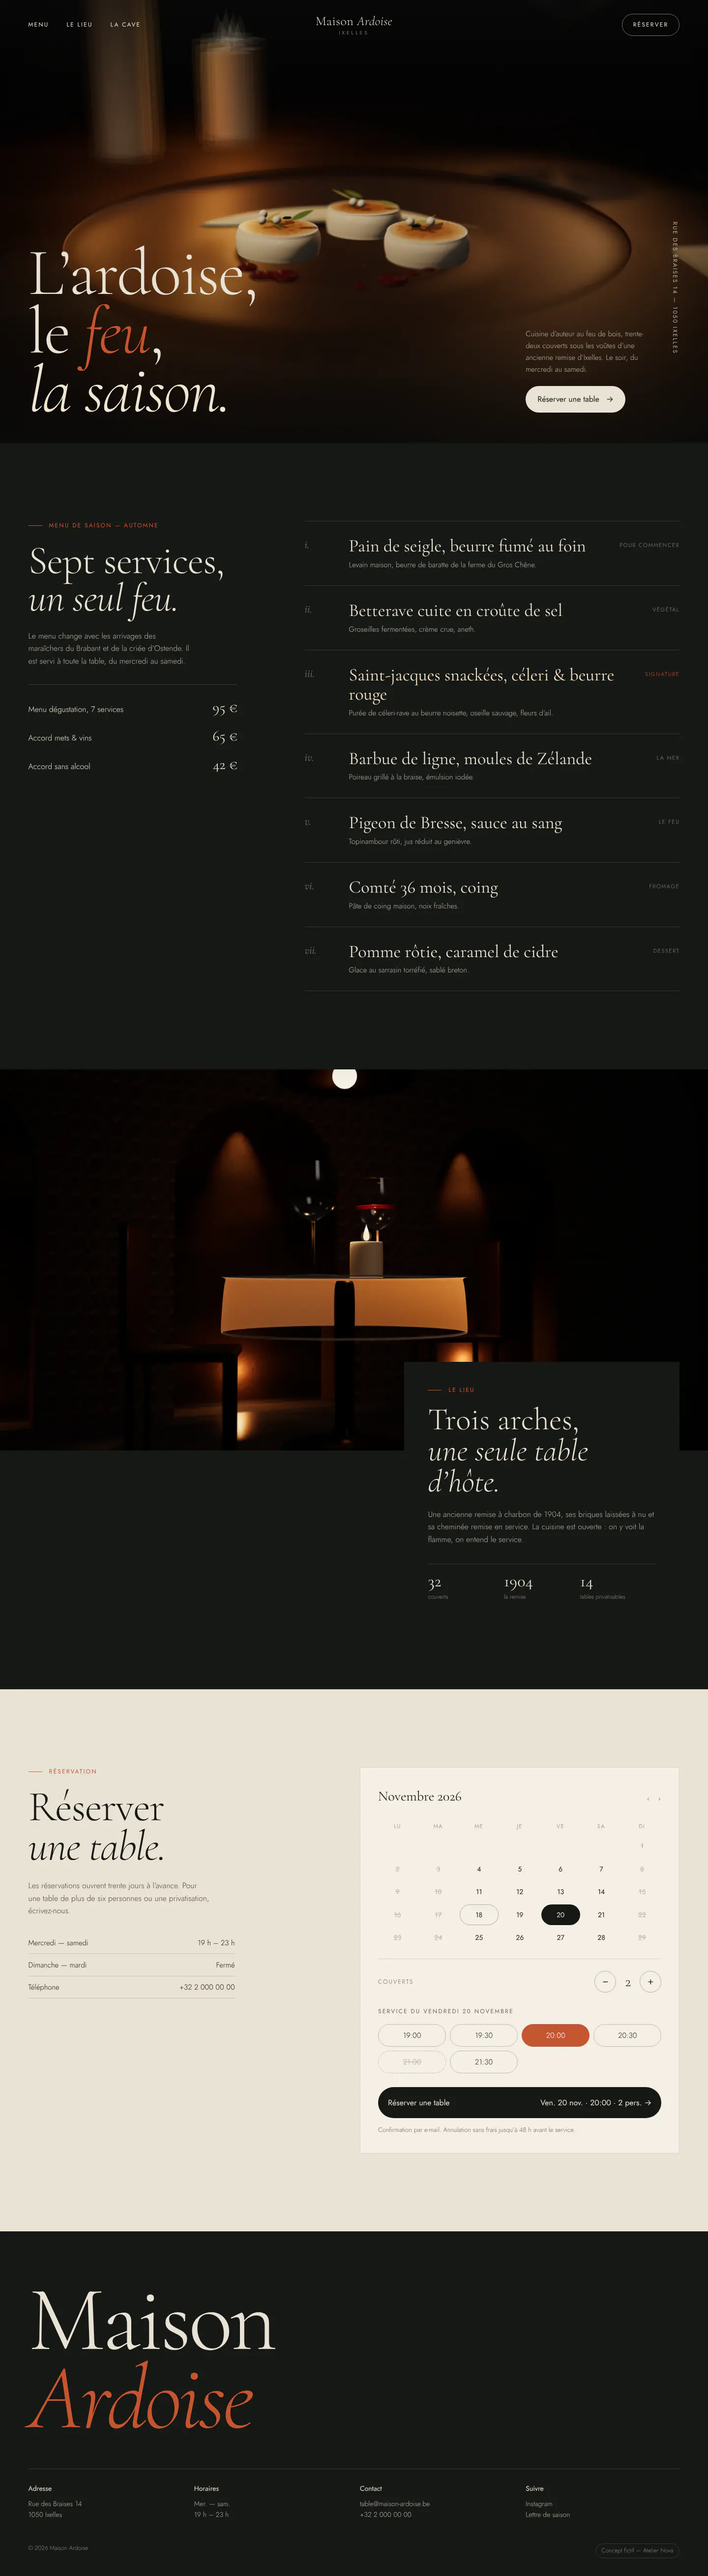
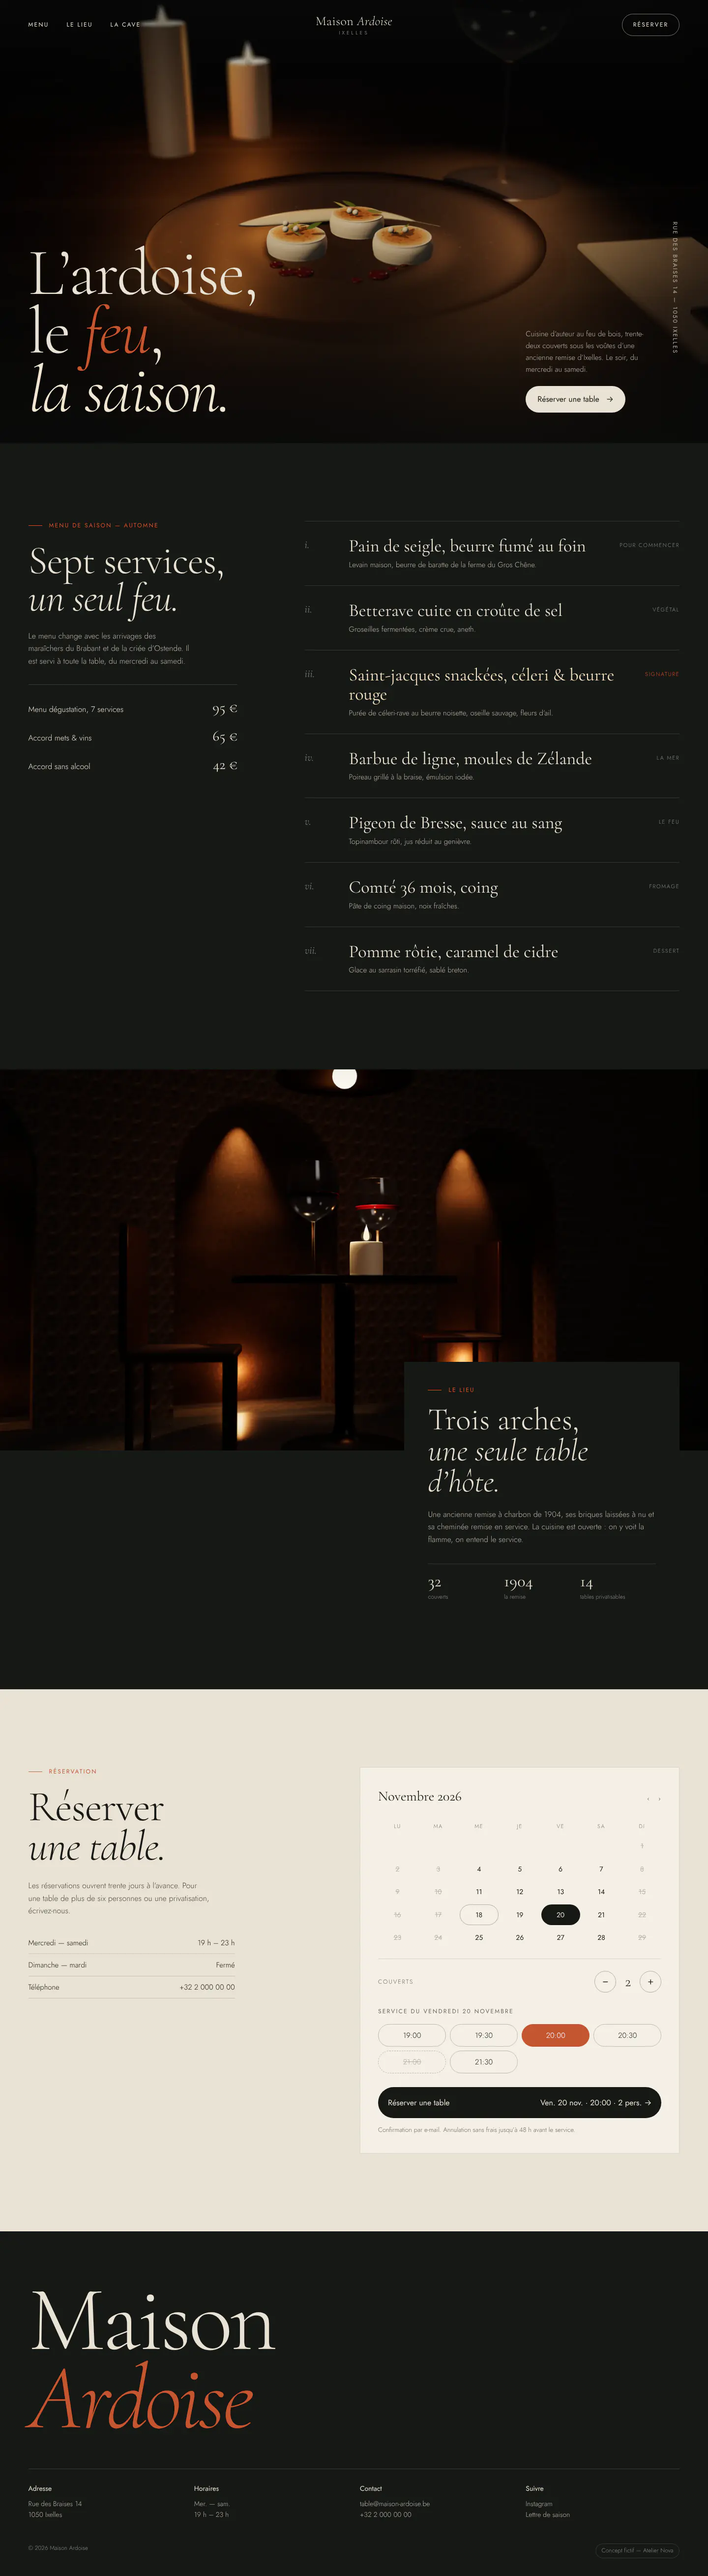
Atelier Nova : dernières versions des visuels du portfolio
Claude-Session: https://claude.ai/code/session_01Ec7LSHtoQyV1W8aWG7xAJu

Changed region(s): [[0.0625, 0.0, 1.0, 0.1558], [0.2812, 0.4362, 0.6875, 0.5608]]

diff --git a/atelier-nova/scripts/assets/sites/vide-architecture/index.html b/atelier-nova/scripts/assets/sites/vide-architecture/index.html
@@ -25,7 +25,7 @@ header nav a.on{text-decoration:underline;text-underline-offset:4px}
 .burger{display:none}
 .hero{padding:0 var(--g)}
 .hero-grid{display:grid;grid-template-columns:repeat(12,1fr);gap:16px}
-.hero-img{grid-column:1/10;height:calc(100vh - 150px);min-height:520px;overflow:hidden;position:relative}
+.hero-img{grid-column:1/10;height:calc(100vh - 300px);min-height:520px;overflow:hidden;position:relative}
 .hero-img img{width:100%;height:100%;object-fit:cover}
 .hero-img .cap{position:absolute;left:14px;bottom:12px;color:#fff;mix-blend-mode:difference}
 .index{grid-column:10/13;display:flex;flex-direction:column;justify-content:space-between}
@@ -34,7 +34,7 @@ header nav a.on{text-decoration:underline;text-underline-offset:4px}
 .index li span:last-child{color:var(--grey);font-family:var(--mono);font-size:12px}
 .index li.on{color:var(--ochre)}
 .index p{font-size:15px;max-width:30ch}
-.giant{position:relative;z-index:3;font-weight:900;font-stretch:125%;font-size:clamp(120px,31vw,560px);line-height:.74;letter-spacing:-.045em;margin:-.36em 0 0 -.05em;white-space:nowrap;color:#F2F1EE;mix-blend-mode:difference;pointer-events:none}
+.giant{position:relative;z-index:3;font-weight:900;font-stretch:125%;font-size:clamp(120px,31vw,560px);line-height:.74;letter-spacing:-.045em;margin:14px 0 0 -.05em;white-space:nowrap;color:var(--black)}
 section{padding:clamp(70px,9vw,140px) var(--g)}
 .s-head{display:grid;grid-template-columns:repeat(12,1fr);gap:16px;margin-bottom:40px;align-items:end}
 .s-head h2{grid-column:1/7;font-weight:800;font-stretch:62%;font-size:clamp(64px,9vw,150px);line-height:.82;letter-spacing:-.02em;text-transform:uppercase}
@@ -84,7 +84,7 @@ footer{background:var(--black);color:var(--chalk);padding:40px var(--g) 24px}
   .hero-img,.index,.s-head h2,.s-head p,.asym .a1,.asym .a2,.asym .q,.ag h2,.ag .cols,.f-top .mail,.f-top .info{grid-column:1}
   .hero-img{height:56vh;min-height:400px}
   .index{margin-top:16px;gap:18px}
-  .giant{font-size:31vw;margin-top:-.2em}
+  .giant{font-size:31vw;margin-top:10px}
   .s-head h2{font-size:84px}
   .tr{grid-template-columns:36px 1fr auto;gap:4px 10px}
   .tr .n{grid-column:1}.tr h3{grid-column:2/4;font-size:22px}
